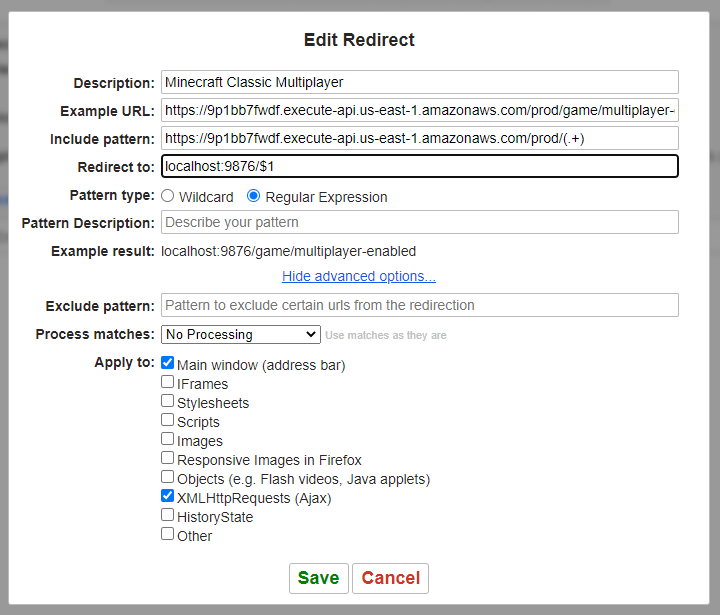
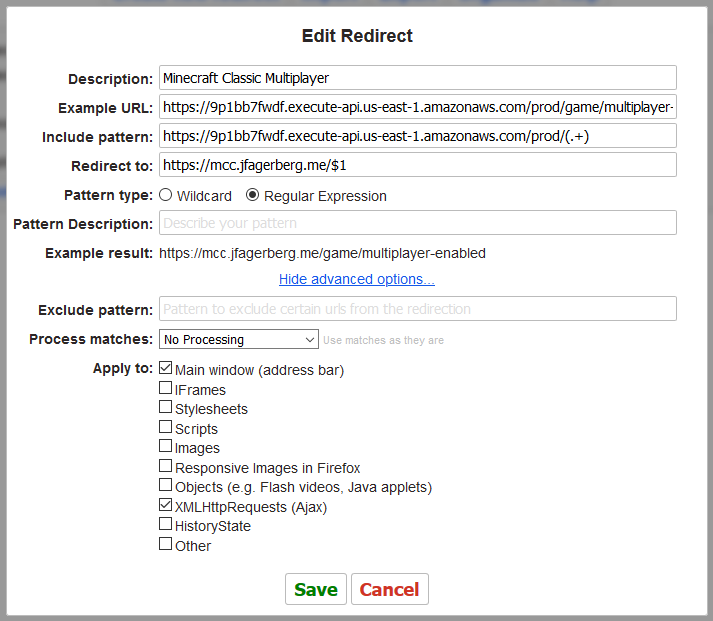
docs: update usage instructions to be more newbie-friendly
Since the majority of people who are looking to use the server aren't interested in hosting it
themselves, the document has been updated to use my hosted server by default

Changed region(s): [[0.0, 0.0, 1.0, 1.0], [0.9257, 0.3398, 0.9565, 0.3707]]

diff --git a/docs/using.md b/docs/using.md
@@ -10,7 +10,7 @@ First step is to find your way to Redirector's settings page. You can do this by
     <img src="imgs/step1.png" alt="First step, showing the buttons to click" />
 </p>
 
-Second step is to set up the actual redirect rule. You should insert the following values:
+Second step is to set up the actual redirect rule. At the time of writing I am hosting a server on `https://mcc.jfagerberg.me`. To use it, you should insert the following values:
 
 <table>
     <tr>
@@ -27,7 +27,7 @@ Second step is to set up the actual redirect rule. You should insert the followi
     </tr>
     <tr>
         <td><b>Redirect to</b></td>
-        <td><code>localhost:9876/$1</code></td>
+        <td><code>https://mcc.jfagerberg.me/$1</code></td>
     </tr>
     <tr>
         <td><b>Pattern type</b></td>
@@ -35,13 +35,13 @@ Second step is to set up the actual redirect rule. You should insert the followi
     </tr>
 </table>
 
-Make sure that the "Example result" shows `localhost:9876/game/multiplayer-enabled`. Finally click "Show advanced options..." and make sure "XMLHttpRequests (Ajax)" is checked.
+Make sure that the "Example result" shows `https://mcc.jfagerberg.me/game/multiplayer-enabled`. Finally click "Show advanced options..." and make sure "XMLHttpRequests (Ajax)" is checked.
 
 <p align="center">
     <img src="imgs/step2.png" alt="Second step, showing the values to enter" />
 </p>
 
-If you are not hosting the server locally (if you're in doubt, you didn't) then you should replace `localhost:9876` with whatever URL the server admin has given you. For example, if it is instead hosted on `https://example.com` then your "Redirect to" should be `https://example.com/$1`.
+If you are hosting the server locally (if you're in doubt, you didn't) then you should replace `https://mcc.jfagerberg.me` with `http://localhost:9876`.
 
 That's it! You can test if it works by going to [classic.minecraft.net](https://classic.minecraft.net) in your browser. If it worked, your URL will contain `?join=mcmp_`.
 
